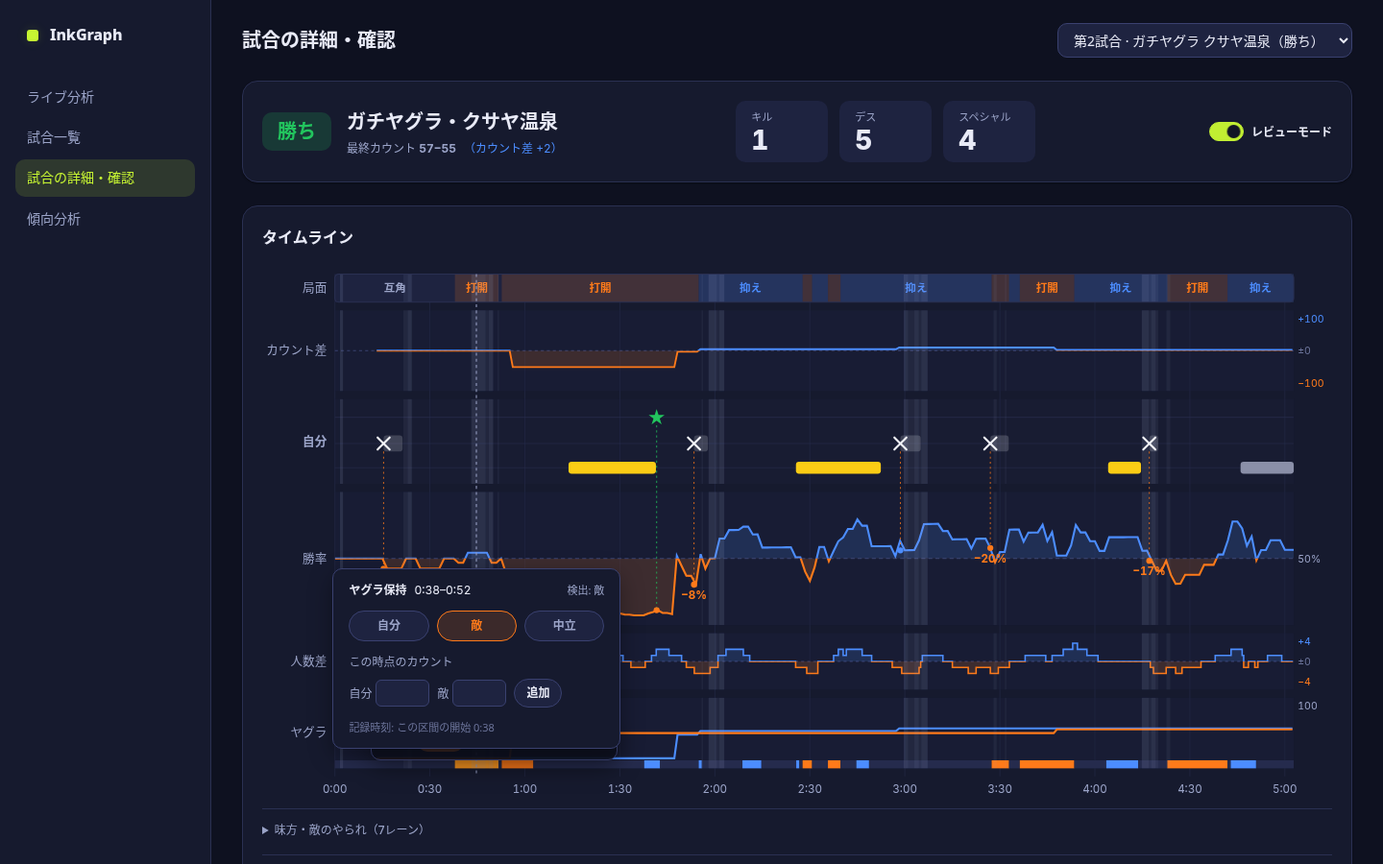
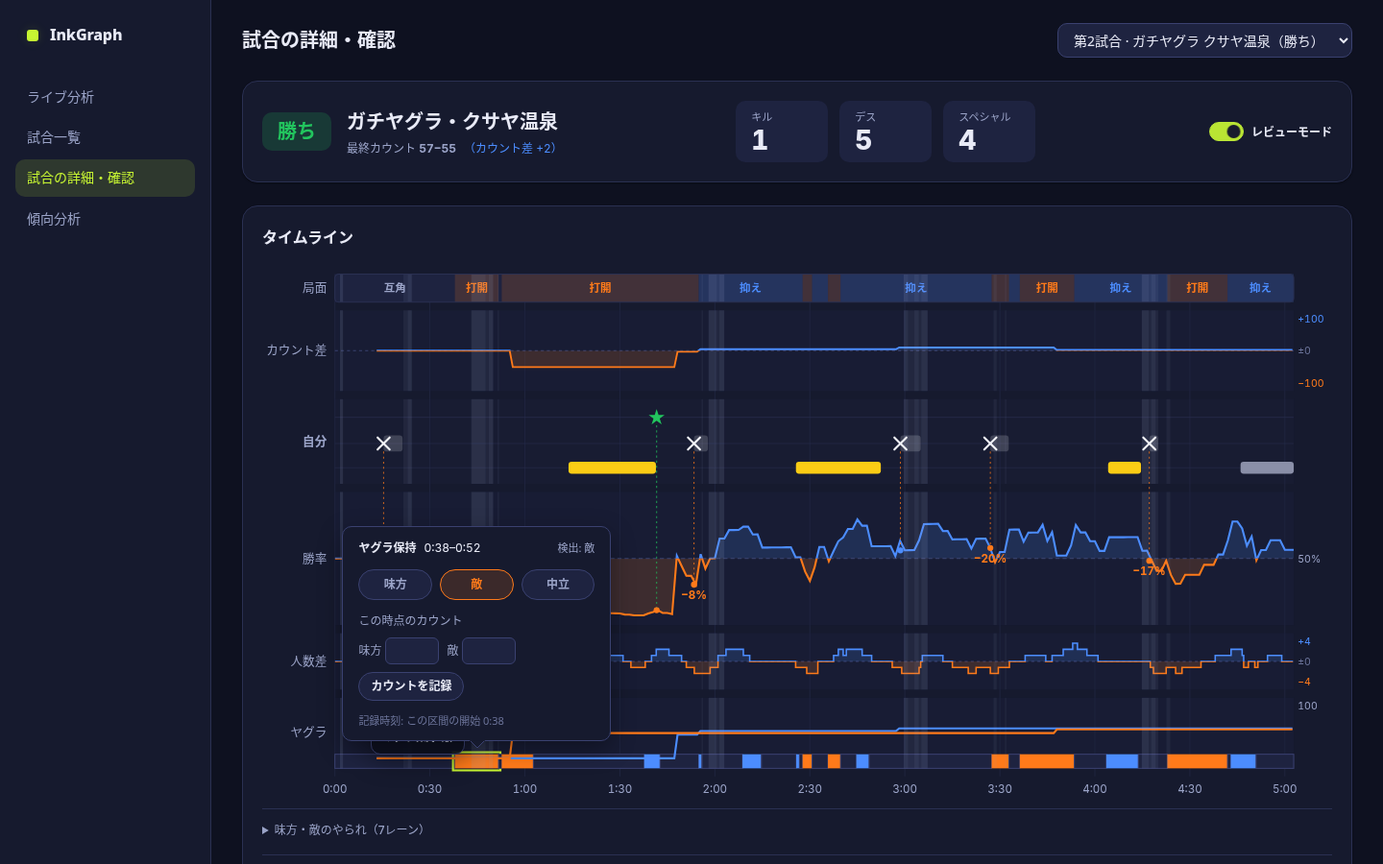
Tower label UI: confirmed-only tower_holder, 未確認に戻す, designer fixes (味方/敵/中立, 14px band, popover arrow, corrected dot, neutral style), D21, AGY_LOG renumber (agy)

diff --git a/web/src/timeline.js b/web/src/timeline.js
@@ -2,7 +2,7 @@
 // Left label column 72px, 30s ticks, 7 lanes:
 // 1. 局面の帯 (28px)  2. カウント差 (80px)  3. 自分レーン  4. 勝率グラフ (120px, 50% split)
 // 5. 人数差 (smoothed <1s)  6. ヤグラ (count lines + holder band)  7. 味方・敵のやられ (collapsed)
-import { effective, series, wpAt, mss, SP_LABEL, holderSegments, HOLDER_JA, setHolderLabel, addCountPoint, removeCountPoint } from './analysis.js';
+import { effective, series, wpAt, mss, SP_LABEL, holderSegments, HOLDER_JA, setHolderLabel, clearHolderLabel, addCountPoint, removeCountPoint } from './analysis.js';
 import { aliveAt } from './core/analyzer.js';
 import * as T from './core/tower.js';
 
@@ -15,7 +15,7 @@ const phaseClass = p => p === '抑え' ? 'phase-osae' : p === '打開' ? 'phase-
 // document-level listeners of the open popover; aborted whenever a timeline is re-rendered
 let popAbort = null;
 
-export function renderTimeline(m, { onSeek, onReviewChange } = {}) {
+export function renderTimeline(m, { onSeek, onReviewChange, reviewMode } = {}) {
   if (popAbort) popAbort.abort();
   popAbort = new AbortController();
   const popSignal = popAbort.signal;
@@ -191,24 +191,38 @@ export function renderTimeline(m, { onSeek, onReviewChange } = {}) {
 
   // ---------------- 6. ヤグラ (70px) ----------------
   if (S.length) {
+    const isReview = reviewMode !== undefined ? !!reviewMode : (typeof document !== 'undefined' && !!document.querySelector('.detail-body.review-on'));
     const tcY = y, tcH = 70;
     const Ytc = v => tcY + tcH - 10 - (Math.max(0, Math.min(100, v || 0)) / 100) * (tcH - 18);
     body += `<text x="${L - 8}" y="${tcY + 38}" text-anchor="end" font-size="12" font-weight="500" fill="var(--text-muted)">ヤグラ</text>`;
     body += `<rect x="${L}" y="${tcY}" width="${Wd}" height="${tcH}" fill="var(--surface-2)" fill-opacity="0.35"/>`;
-    // Holder band at bottom of lane: one rect per contiguous holder run (review overlay applied).
-    // Review mode: each run is a focusable/clickable target (see .tw-seg in style.css).
-    const bandH = 8, bandY = tcY + tcH - bandH;
-    const holderCol = v => v === 'own' ? 'var(--ally)' : v === 'enemy' ? 'var(--enemy)' : 'var(--surface-hover)';
-    defs += `<pattern id="tw-hatch-${uid}" width="4" height="4" patternUnits="userSpaceOnUse" patternTransform="rotate(45)"><rect width="1.5" height="4" fill="var(--accent-text)" fill-opacity="0.55"/></pattern>`;
+    // Holder band at bottom of lane: review mode has 14px height and 24px hit area
+    const bandH = isReview ? 14 : 8, bandY = tcY + tcH - bandH;
+    const hitH = 24, hitY = bandY - (hitH - bandH) / 2;
+    const holderCol = v => v === 'own' ? 'var(--ally)' : v === 'enemy' ? 'var(--enemy)' : 'var(--surface-2)';
     for (const sg of holderSegs) {
       const xa = X(sg.ta), w = Math.max(2, X(sg.tb) - xa);
-      const lab = `${mss(sg.ta - t0)}–${mss(sg.tb - t0)} ヤグラ保持: ${HOLDER_JA[sg.val]}${sg.changed ? '（変更済み）' : sg.confirmed ? '（確認済み）' : ''}`;
-      body += `<g class="tw-seg" data-key="${sg.key}" tabindex="0" role="button" aria-label="${lab}"><title>${lab}</title>`
-        + `<rect x="${xa.toFixed(1)}" y="${bandY - 4}" width="${w.toFixed(1)}" height="${bandH + 4}" fill="transparent"/>`
-        + `<rect class="tw-fill" x="${xa.toFixed(1)}" y="${bandY}" width="${w.toFixed(1)}" height="${bandH}" fill="${holderCol(sg.val)}"/>`
-        + (sg.changed ? `<rect x="${xa.toFixed(1)}" y="${bandY}" width="${w.toFixed(1)}" height="${bandH}" fill="url(#tw-hatch-${uid})" pointer-events="none"/>` : '')
-        + (sg.confirmed ? `<rect x="${(xa + .5).toFixed(1)}" y="${bandY - .5}" width="${Math.max(1, w - 1).toFixed(1)}" height="${bandH + 1}" fill="none" stroke="var(--accent)" stroke-width="${sg.changed ? 2 : 1}" pointer-events="none"/>` : '')
-        + `<rect class="tw-focus" x="${(xa - 1).toFixed(1)}" y="${bandY - 3}" width="${(w + 2).toFixed(1)}" height="${bandH + 6}" rx="2" fill="none" stroke="var(--text)" stroke-width="1.5" pointer-events="none"/></g>`;
+      let tip;
+      if (sg.changed) {
+        tip = `修正済み（検出：${HOLDER_JA[sg.det]}）`;
+      } else if (sg.val === 'neutral') {
+        tip = '中立（だれも乗っていない）';
+      } else if (sg.confirmed) {
+        tip = `ヤグラ保持: ${HOLDER_JA[sg.val]}（確認済み）`;
+      } else {
+        tip = `ヤグラ保持: ${HOLDER_JA[sg.val]}`;
+      }
+      const lab = `${mss(sg.ta - t0)}–${mss(sg.tb - t0)} ${tip}`;
+      const fillStyle = sg.val === 'neutral'
+        ? 'fill="var(--surface-2)" stroke="var(--border-strong)" stroke-width="1"'
+        : `fill="${holderCol(sg.val)}"`;
+      const dotX = xa + Math.min(5, w / 2), dotY = bandY + bandH / 2;
+      body += `<g class="tw-seg" data-key="${sg.key}" data-tip="${tip}" tabindex="0" role="button" aria-label="${lab}"><title>${tip}</title>`
+        + (isReview ? `<rect class="tw-hit" x="${xa.toFixed(1)}" y="${hitY.toFixed(1)}" width="${w.toFixed(1)}" height="${hitH}" fill="transparent"/>` : '')
+        + `<rect class="tw-fill" x="${xa.toFixed(1)}" y="${bandY.toFixed(1)}" width="${w.toFixed(1)}" height="${bandH.toFixed(1)}" ${fillStyle}/>`
+        + (sg.changed ? `<circle class="tw-changed-dot" cx="${dotX.toFixed(1)}" cy="${dotY.toFixed(1)}" r="3" fill="var(--accent)" pointer-events="none"/>` : '')
+        + (sg.confirmed && !sg.changed ? `<rect class="tw-confirmed" x="${(xa + 0.5).toFixed(1)}" y="${(bandY - 0.5).toFixed(1)}" width="${Math.max(1, w - 1).toFixed(1)}" height="${(bandH + 1).toFixed(1)}" fill="none" stroke="var(--accent)" stroke-width="1" pointer-events="none"/>` : '')
+        + `<rect class="tw-focus" x="${(xa - 1).toFixed(1)}" y="${(bandY - 2).toFixed(1)}" width="${(w + 2).toFixed(1)}" height="${(bandH + 4).toFixed(1)}" rx="2" fill="none" stroke="var(--text)" stroke-width="1.5" pointer-events="none"/></g>`;
     }
     const ownLine = S.map(p => `${X(p.t).toFixed(1)},${Ytc(p.count_own).toFixed(1)}`).join(' ');
     const eneLine = S.map(p => `${X(p.t).toFixed(1)},${Ytc(p.count_enemy).toFixed(1)}`).join(' ');
@@ -217,7 +231,8 @@ export function renderTimeline(m, { onSeek, onReviewChange } = {}) {
     // recorded count points (review.count_series) as dots on the count lines
     for (const c of (m.review && m.review.count_series) || []) {
       if (c[0] < t0 || c[0] > t1) continue;
-      body += `<g class="tw-cp"><title>${mss(c[0] - t0)} 記録カウント 自分 ${c[1]} 敵 ${c[2]}</title><circle cx="${X(c[0]).toFixed(1)}" cy="${Ytc(c[1]).toFixed(1)}" r="3.5" fill="var(--ally)" stroke="var(--surface)" stroke-width="1.5"/><circle cx="${X(c[0]).toFixed(1)}" cy="${Ytc(c[2]).toFixed(1)}" r="3.5" fill="var(--enemy)" stroke="var(--surface)" stroke-width="1.5"/></g>`;
+      const cTip = `味方 ${c[1]} ／ 敵 ${c[2]}`;
+      body += `<g class="tw-cp" data-c0="${c[0]}" data-own="${c[1]}" data-enemy="${c[2]}" data-tip="${cTip}" tabindex="0"><title>${cTip}</title><circle cx="${X(c[0]).toFixed(1)}" cy="${Ytc(c[1]).toFixed(1)}" r="3.5" fill="var(--ally)" stroke="var(--surface)" stroke-width="1.5"/><circle cx="${X(c[0]).toFixed(1)}" cy="${Ytc(c[2]).toFixed(1)}" r="3.5" fill="var(--enemy)" stroke="var(--surface)" stroke-width="1.5"/></g>`;
     }
     body += unknownBand(tcY, tcH);
     body += `<text x="${L + Wd + 4}" y="${tcY + 12}" class="num" font-size="10" fill="var(--text-muted)">100</text>`;
@@ -293,6 +308,31 @@ export function renderTimeline(m, { onSeek, onReviewChange } = {}) {
   };
 
   svg.addEventListener('mousemove', e => {
+    const seg = e.target.closest('.tw-seg');
+    if (seg && seg.dataset.tip) {
+      hoverLine.style.opacity = '0';
+      tooltip.innerHTML = `<span>${seg.dataset.tip}</span>`;
+      tooltip.style.display = 'inline-flex';
+      const rect = wrap.getBoundingClientRect();
+      const relX = e.clientX - rect.left;
+      const relY = e.clientY - rect.top;
+      tooltip.style.left = `${Math.max(8, Math.min(rect.width - 260, relX - 110))}px`;
+      tooltip.style.top = `${Math.max(4, relY - 42)}px`;
+      return;
+    }
+    const cp = e.target.closest('.tw-cp');
+    if (cp && cp.dataset.tip) {
+      hoverLine.style.opacity = '0';
+      tooltip.innerHTML = `<span>${cp.dataset.tip}</span>`;
+      tooltip.style.display = 'inline-flex';
+      const rect = wrap.getBoundingClientRect();
+      const relX = e.clientX - rect.left;
+      const relY = e.clientY - rect.top;
+      tooltip.style.left = `${Math.max(8, Math.min(rect.width - 260, relX - 110))}px`;
+      tooltip.style.top = `${Math.max(4, relY - 42)}px`;
+      return;
+    }
+
     const t = clientToMatchTime(e);
     if (t === null) {
       hoverLine.style.opacity = '0';
@@ -328,6 +368,38 @@ export function renderTimeline(m, { onSeek, onReviewChange } = {}) {
     tooltip.style.display = 'none';
   });
 
+  wrap.querySelectorAll('.tw-seg').forEach(g => {
+    g.addEventListener('mouseenter', e => {
+      const tip = g.dataset.tip;
+      if (!tip) return;
+      hoverLine.style.opacity = '0';
+      tooltip.innerHTML = `<span>${tip}</span>`;
+      tooltip.style.display = 'inline-flex';
+      const rect = wrap.getBoundingClientRect();
+      const gr = g.getBoundingClientRect();
+      const relX = gr.left - rect.left + gr.width / 2;
+      const relY = gr.top - rect.top;
+      tooltip.style.left = `${Math.max(8, Math.min(rect.width - 260, relX - 110))}px`;
+      tooltip.style.top = `${Math.max(4, relY - 42)}px`;
+    });
+  });
+
+  wrap.querySelectorAll('.tw-cp').forEach(g => {
+    g.addEventListener('mouseenter', e => {
+      const tip = g.dataset.tip;
+      if (!tip) return;
+      hoverLine.style.opacity = '0';
+      tooltip.innerHTML = `<span>${tip}</span>`;
+      tooltip.style.display = 'inline-flex';
+      const rect = wrap.getBoundingClientRect();
+      const gr = g.getBoundingClientRect();
+      const relX = gr.left - rect.left + gr.width / 2;
+      const relY = gr.top - rect.top;
+      tooltip.style.left = `${Math.max(8, Math.min(rect.width - 260, relX - 110))}px`;
+      tooltip.style.top = `${Math.max(4, relY - 42)}px`;
+    });
+  });
+
   wrap.querySelectorAll('.ev').forEach(g => g.addEventListener('click', e => {
     e.stopPropagation();
     if (onSeek) onSeek(+g.dataset.t);
@@ -341,10 +413,11 @@ export function renderTimeline(m, { onSeek, onReviewChange } = {}) {
   // ---- ヤグラ保持ラベルのポップオーバー（確認モードのみ） ----
   // カウント点の時刻は「区間の開始時刻」に固定（動画の同期ずれに依存せず再現できるため）。
   let pop = null, popKey = null;
-  const reviewOn = () => !!wrap.closest('.detail-body.review-on');
+  const reviewOn = () => reviewMode !== undefined ? !!reviewMode : !!wrap.closest('.detail-body.review-on');
   const segEl = key => [...svg.querySelectorAll('.tw-seg')].find(g => g.dataset.key === key);
   const closePop = (refocus) => {
     if (!pop) return;
+    svg.querySelectorAll('.tw-seg.is-editing').forEach(el => el.classList.remove('is-editing'));
     const k = popKey; pop.remove(); pop = null; popKey = null;
     if (refocus) { const g = segEl(k); if (g) g.focus(); }
   };
@@ -353,6 +426,7 @@ export function renderTimeline(m, { onSeek, onReviewChange } = {}) {
     if (!sg || !g || !reviewOn()) return;
     closePop();
     popKey = key;
+    g.classList.add('is-editing');
     pop = document.createElement('div');
     pop.className = 'tw-pop'; pop.setAttribute('role', 'dialog'); pop.setAttribute('aria-label', 'ヤグラ保持のラベル');
     const pts = ((m.review && m.review.count_series) || []).filter(c => c[0] >= sg.ta - 1e-6 && c[0] < sg.tb);
@@ -363,21 +437,37 @@ export function renderTimeline(m, { onSeek, onReviewChange } = {}) {
       </div>
       <div class="tw-pop-count">
         <span class="tw-pop-count-label">この時点のカウント</span>
-        <label>自分 <input type="number" class="input-sm tw-cn tw-cn-own" min="0" max="100" inputmode="numeric" aria-label="自分のカウント"></label>
+        <label>味方 <input type="number" class="input-sm tw-cn tw-cn-own" min="0" max="100" inputmode="numeric" aria-label="味方のカウント"></label>
         <label>敵 <input type="number" class="input-sm tw-cn tw-cn-enemy" min="0" max="100" inputmode="numeric" aria-label="敵のカウント"></label>
-        <button type="button" class="btn btn-sm tw-cn-add">追加</button>
+        <button type="button" class="btn btn-sm tw-cn-add">カウントを記録</button>
       </div>
       <div class="tw-pop-note">記録時刻: この区間の開始 ${mss(sg.ta - t0)}</div>
-      ${pts.length ? `<ul class="tw-pop-list">${pts.map(c => `<li><span class="num">${mss(c[0] - t0)}</span><span class="num">自分 ${c[1]} / 敵 ${c[2]}</span><button type="button" class="btn btn-sm tw-cn-del" data-sec="${c[0]}" aria-label="カウント点を削除">×</button></li>`).join('')}</ul>` : ''}`;
+      ${pts.length ? `<ul class="tw-pop-list">${pts.map(c => `<li><span class="num">${mss(c[0] - t0)}</span><span class="num">味方 ${c[1]} / 敵 ${c[2]}</span><button type="button" class="btn btn-sm tw-cn-del" data-sec="${c[0]}" aria-label="カウント点を削除">×</button></li>`).join('')}</ul>` : ''}
+      ${sg.confirmed ? `<div class="tw-pop-foot"><button type="button" class="tw-unconfirm">未確認に戻す</button></div>` : ''}
+      <svg class="tw-pop-arrow" width="16" height="8" viewBox="0 0 16 8"><path d="M0,0 L8,8 L16,0" fill="var(--surface)" stroke="var(--border-strong)" stroke-width="1"/><line x1="0" y1="0" x2="16" y2="0" stroke="var(--surface)" stroke-width="1.5"/></svg>`;
     wrap.appendChild(pop);
     const wr = wrap.getBoundingClientRect(), gr = g.getBoundingClientRect(), pw = pop.offsetWidth, ph = pop.offsetHeight;
-    pop.style.left = `${Math.max(8, Math.min(wr.width - pw - 8, gr.left - wr.left + gr.width / 2 - pw / 2))}px`;
-    pop.style.top = `${Math.max(4, gr.top - wr.top - ph - 8)}px`;
+    const segCenterX = gr.left - wr.left + gr.width / 2;
+    const popLeft = Math.max(8, Math.min(wr.width - pw - 8, segCenterX - pw / 2));
+    const popTop = Math.max(4, gr.top - wr.top - ph - 8);
+    pop.style.left = `${popLeft}px`;
+    pop.style.top = `${popTop}px`;
+    const arrow = pop.querySelector('.tw-pop-arrow');
+    if (arrow) {
+      const arrowX = Math.max(16, Math.min(pw - 16, segCenterX - popLeft));
+      arrow.style.left = `${arrowX}px`;
+    }
     pop.querySelectorAll('.tw-pill').forEach(b => b.addEventListener('click', () => {
       setHolderLabel(m, key, b.dataset.v);
       closePop();
       if (onReviewChange) onReviewChange({ reopen: null, focus: key });
     }));
+    const uc = pop.querySelector('.tw-unconfirm');
+    if (uc) uc.addEventListener('click', () => {
+      clearHolderLabel(m, key);
+      closePop();
+      if (onReviewChange) onReviewChange({ reopen: null, focus: key });
+    });
     pop.querySelector('.tw-cn-add').addEventListener('click', () => {
       const a = pop.querySelector('.tw-cn-own').value, b = pop.querySelector('.tw-cn-enemy').value;
       const ok = v => v !== '' && Number.isFinite(+v) && +v >= 0 && +v <= 100;
@@ -440,5 +530,6 @@ export const LEGEND = `
     <span><svg width="14" height="14" viewBox="0 0 14 14" style="vertical-align:middle"><line x1="2" y1="2" x2="12" y2="12" stroke="var(--death)" stroke-width="2" stroke-linecap="round"/><line x1="12" y1="2" x2="2" y2="12" stroke="var(--death)" stroke-width="2" stroke-linecap="round"/></svg> デス</span>
     <span><i class="tl-swatch" style="background:var(--special)"></i>スペシャル発動</span>
     <span><i class="tl-swatch" style="background:var(--special-wasted)"></i>スペシャル未使用・払い落とし</span>
+    <span><b style="color:var(--accent)">●</b> 修正済み</span>
   </div>
 </div>`;

diff --git a/web/src/analysis.js b/web/src/analysis.js
@@ -40,10 +40,12 @@ export const pct = v => v === null || v === undefined || isNaN(v) ? '—' : `${M
 // ヤグラ保持の人手ラベル（D20: review.tower_holder / review.count_series）
 // 検出の保持区間（同じ保持者が続く区間）を単位に、確認済みの値を review.tower_seg
 // （キー＝区間開始秒 toFixed(1)）に保存し、そこから D20 形式の review.tower_holder を再生成する。
-// 方針: 1区間でも確認/変更したら tower_holder を書き出す。未確認の区間は「検出値のまま」で埋める
-// （試合全体を覆う）。1区間も確認していなければ tower_holder は書かない（評価側は未ラベル扱い）。
+// 方針: tower_holder には「確認済みの区間だけ」を書き出す（ポップオーバーで値を設定した区間）。
+// 未確認の区間は書かない（隙間になり、eval_labels.py は区間に覆われない秒を採点しない）。
+// 隣り合う確認済み区間が同じ値なら結合する。1区間も確認していなければ tower_holder は書かない
+// （評価側は未ラベル扱い）。
 // ---------------------------------------------------------------------------
-export const HOLDER_JA = { own: '自分', enemy: '敵', neutral: '中立' };
+export const HOLDER_JA = { own: '味方', enemy: '敵', neutral: '中立' };
 const holderOf = o => (o === 'own' || o === 'enemy') ? o : 'neutral';
 const r1 = x => Math.round(x * 10) / 10;
 /** detected holder runs over the battle, with review overlay: {key,ta,tb,det,val,confirmed,changed} */
@@ -62,12 +64,27 @@ export function syncTowerHolder(m) {
   const r = m.review; const segs = holderSegments(m);
   if (!r || !segs.some(s => s.confirmed)) { if (r) delete r.tower_holder; return; }
   const out = [];
-  for (const s of segs) { const a = r1(s.ta), b = r1(s.tb), l = out[out.length - 1];
-    if (l && l[2] === s.val) l[1] = b; else out.push([a, b, s.val]); }
+  for (const s of segs) {
+    if (!s.confirmed) continue;
+    const a = r1(s.ta), b = r1(s.tb), l = out[out.length - 1];
+    if (l && l[2] === s.val && Math.abs(l[1] - a) < 0.05) l[1] = b;
+    else out.push([a, b, s.val]);
+  }
   r.tower_holder = out;
 }
 export function setHolderLabel(m, key, val) {
-  m.review.tower_seg = m.review.tower_seg || {}; m.review.tower_seg[key] = val; syncTowerHolder(m);
+  m.review = m.review || {};
+  m.review.tower_seg = m.review.tower_seg || {};
+  m.review.tower_seg[key] = val;
+  syncTowerHolder(m);
+}
+/** remove the confirmation of one segment (back to unconfirmed) and rebuild tower_holder */
+export function clearHolderLabel(m, key) {
+  if (m.review && m.review.tower_seg) {
+    delete m.review.tower_seg[key];
+    if (!Object.keys(m.review.tower_seg).length) delete m.review.tower_seg;
+  }
+  syncTowerHolder(m);
 }
 export function addCountPoint(m, sec, own, enemy) {
   const cs = (m.review.count_series = m.review.count_series || []); sec = r1(sec);

diff --git a/web/src/style.css b/web/src/style.css
@@ -1296,13 +1296,17 @@ tr.added td {
 .tw-seg .tw-focus { opacity: 0; }
 .detail-body:not(.review-on) .tw-seg { pointer-events: none; }
 .detail-body.review-on .tw-seg { cursor: pointer; }
-.detail-body.review-on .tw-seg:hover .tw-fill { filter: brightness(1.25); }
+.detail-body.review-on .tw-seg:hover .tw-fill { outline: 1px solid var(--text-muted); }
 .tw-seg:focus-visible .tw-focus { opacity: 1; }
+.tw-seg.is-editing .tw-fill {
+  outline: 2px solid var(--accent) !important;
+  outline-offset: 1px;
+}
 
 .tw-pop {
   position: absolute;
   z-index: 30;
-  width: 300px;
+  width: 280px;
   display: flex;
   flex-direction: column;
   gap: var(--sp-3);
@@ -1312,6 +1316,14 @@ tr.added td {
   border-radius: var(--r-md);
   box-shadow: var(--shadow-2);
   font-size: var(--fs-sm);
+}
+.tw-pop-arrow {
+  position: absolute;
+  bottom: -8px;
+  width: 16px;
+  height: 8px;
+  transform: translateX(-50%);
+  pointer-events: none;
 }
 .tw-pop-head { display: flex; align-items: baseline; gap: var(--sp-2); }
 .tw-pop-title { font-weight: var(--fw-bold); color: var(--text); }
@@ -1343,3 +1355,16 @@ tr.added td {
 .tw-pop-list { list-style: none; margin: 0; padding: 0; display: flex; flex-direction: column; gap: var(--sp-1); }
 .tw-pop-list li { display: flex; align-items: center; gap: var(--sp-3); }
 .tw-pop-list .btn { margin-left: auto; border-radius: var(--r-pill); }
+.tw-pop-foot { display: flex; margin-top: calc(-1 * var(--sp-1)); }
+.tw-unconfirm {
+  background: none;
+  border: none;
+  padding: 0;
+  color: var(--text-muted);
+  font-size: 12px;
+  cursor: pointer;
+  text-decoration: underline;
+  text-underline-offset: 2px;
+}
+.tw-unconfirm:hover { color: var(--text); }
+.tw-cp { cursor: pointer; }

diff --git a/web/src/main.js b/web/src/main.js
@@ -788,6 +788,7 @@ PAGES.match = async () => {
     reviewMode = e.target.checked;
     $('#detail-body', page).classList.toggle('review-on', reviewMode);
     if (!reviewMode && tlEl) tlEl.closePopover();
+    drawTL();
   };
 
   const video = $('#rv', page);
@@ -813,6 +814,7 @@ PAGES.match = async () => {
 
   const drawTL = (opts = {}) => {
     tlEl = renderTimeline(m, {
+      reviewMode,
       onSeek: seek,
       // ヤグラ保持ラベル / カウント点の変更: 保存して帯を描き直す（カウント追加・削除ではポップオーバーを開いたままにする）
       onReviewChange: async ({ reopen, focus }) => { await save(); drawTL({ reopen, focus }); },

diff --git a/docs/AGY_LOG.md b/docs/AGY_LOG.md
@@ -10,7 +10,9 @@
 | 4 | 2026-10-17 | Designerレビュー反映（P1〜P3・.btn-stop・ingest_feedbackのka未確認化・D18・スクショ8枚） | 既定モデル（--effort high） | 9項目（A〜I）を1回でまとめて依頼（約35行） | 途中で失敗。約10分後に quota 429（Individual quota reached、リセットまで約163時間）で停止し、A/C/E/F とBの一部まで反映済み | — | 仕様1回＋失敗の調査（約3回） |
 | 5 | 2026-10-17 | #4 の続き（作業ツリーの途中差分を確認させてから残りを完了） | claude-sonnet-5-5-medium | #4 と同じプロンプト＋「中断した作業の続き」の前置き | 成功（約1.5分）。B/D/G/H/I を完了し、ビルド・py_compile・スクショ8枚まで実施 | なし（スクショ7枚と差分を確認） | 再依頼1回＋確認（約9回） |
 | 6 | 2026-10-17 | Designer最終修正（ライブの状態バッジ、状況別表のキル÷デスを列見出しに、確認バーのトラック）＋ playwright での操作確認（ui_check.mjs）＋スクショ8枚の撮り直し | claude-sonnet-5-5-medium | 4項目を1回で依頼（約15行） | 成功（約2.5分）。操作確認3/3 PASS（ファイル選択ダイアログ、ツールチップ、「…」→削除→確認→行が1つ減る） | なし（スクショ3枚と差分を確認） | 仕様1回＋確認（約6回） |
-| 7 | 2026-10-17 | 確認モードにヤグラ保持ラベルUI（区間クリック→自分/敵/中立、任意カウント）、D20形式で review.tower_holder / count_series をzipに出力、playwright 確認スクリプト | claude-sonnet-5-5-medium | 5項目を1回で依頼（約30行） | 約2.5分で interrupted になり、`-c` で続きを依頼して完了（約1.5分）。tower_label_check ALL PASS、ui_check 3/3、eval_labels.py がzipを読めることも確認 | なし（スクショ3枚と差分を確認） | 仕様1回＋再開1回＋変更前スクショを自分で撮影＋確認（約9回） |
+| 10 | 2026-10-17 | 確認モードにヤグラ保持ラベルUI（区間クリック→自分/敵/中立、任意カウント）、D20形式で review.tower_holder / count_series をzipに出力、playwright 確認スクリプト | claude-sonnet-5-5-medium | 5項目を1回で依頼（約30行） | 約2.5分で interrupted になり、`-c` で続きを依頼して完了（約1.5分）。tower_label_check ALL PASS、ui_check 3/3、eval_labels.py がzipを読めることも確認 | なし（スクショ3枚と差分を確認） | 仕様1回＋再開1回＋変更前スクショを自分で撮影＋確認（約9回） |
+| 11 | 2026-10-17 | Lead判断（確認済み区間だけ出力・未確認に戻す・D21・番号振り直し）＋Designer修正D1〜D7 | claude-sonnet-5-5-medium | Lead 6項目＋Designer 7項目を1回でまとめて依頼 | 失敗。1回目は約47秒で中断（analysis.js/timeline.js が途中まで変更済み）、2回目は quota 429（約1.5時間でリセット）で停止 | — | 依頼2回＋調査（約3回） |
+| 12 | 2026-10-17 | #11 の続き（途中の差分を確認させてから完了） | gemini-3.8-flash-medium（sonnet の quota 切れのため切り替え） | #11 と同じプロンプト＋「中断した作業の続き」の前置き | 成功（約11分）。tower_label_check 28項目 ALL PASS、eval_labels.py で読めることを確認、スクショ02〜05を更新・追加 | なし（スクショ3枚と差分を確認） | 再依頼1回＋確認（約6回） |
 
 ## 所感
 - 委任前（Web版の検出器移植・UI・検証ツール）は Grok が直接書いた：ツール呼び出し約35回。

diff --git a/docs/DECISIONS.md b/docs/DECISIONS.md
@@ -76,3 +76,10 @@
 ## D18 (2026-10-17) デザインレビュー反映：キル+アシストの廃止と停止ボタンの追加
 - キル+アシスト（ka）はUIから外す。`tools/ingest_feedback.py` は `result_screen` や `fix` に `ka` がなくても止まらず、「未確認」（None）として扱う。自分のキルは、タイムラインのキルイベントで確認する（Leadの決定）。
 - `.btn-stop` を `tokens.css` に追加した（背景は透明、文字色は `--danger`、1pxの `--danger` 枠線、ホバーで12%の薄い赤）。`.btn-danger-ghost` は残し、試合一覧の「…」メニュー内の「削除」に使う。
+
+## D21 (2026-10-17) ヤグラ保持ラベルの入力 UI（D20 への追記）
+- 本ブランチは D20（review.tower_holder / review.count_series、PR #28）への追記・補足を定める。
+- review.tower_holder には、ユーザーがポップオーバーで明示的に確認・設定した区間のみを `[start, end, own|enemy|neutral]`（昇順ソート、隣接する同値区間は結合）として書き出す。未確認区間は含めず除外（隙間）とし、eval_labels.py 等の評価ツール側でも区間に覆われない秒は採点対象外（スキップ）とする。確認済み区間が1つも存在しない場合は tower_holder は未設定（undefined/null、未ラベル扱い）とする。
+- カウント系列（review.count_series）の記録点は、動画の同期ずれに依存せず再現できるよう、該当区間の開始時刻（秒、0.1秒丸め）に記録する。
+- ポップオーバーには確認済み区間を未確認状態に戻す「未確認に戻す」ボタンを設け、押下時は内部の確認状態（review.tower_seg）から該当区間を削除し、タイムラインの確認マーカーを除去して tower_holder を再生成する。
+- review.tower_seg は検出された区間の開始時刻（秒、0.1秒丸め）をキーとして own|enemy|neutral を保持する内部管理用とし、ここから 0.1 秒丸めの tower_holder を再構築する。評価ツール側は tower_seg ではなく tower_holder / count_series を参照する。
